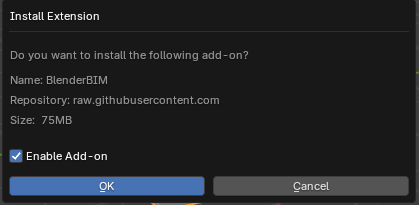
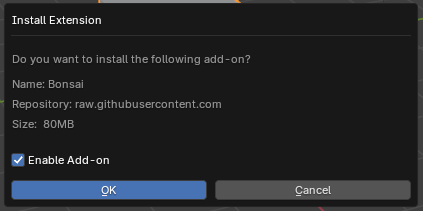
Update images for Bonsai, clarify instructions since bonsai is accepted to the Blender extensions platform

Changed region(s): [[0.0, 0.0, 1.0, 1.0]]

diff --git a/readme_header.md b/readme_header.md
@@ -27,7 +27,7 @@ To install the Bonsai extension you can either drag'n'drop the same url again an
 
 ![alt text](img/image-3.png)
 
-Or you can search for "bonsai" in Extensions and Install it.
+Or you can search for "bonsai" in Extensions and Install it. Make sure selected extension have "raw.githubusercontent.com" as it's "Repository" (not "extensions.blender.org"), otherwise you'll install regular Bonsai version without daily updates.
 
 ![](img/image.png)
 
